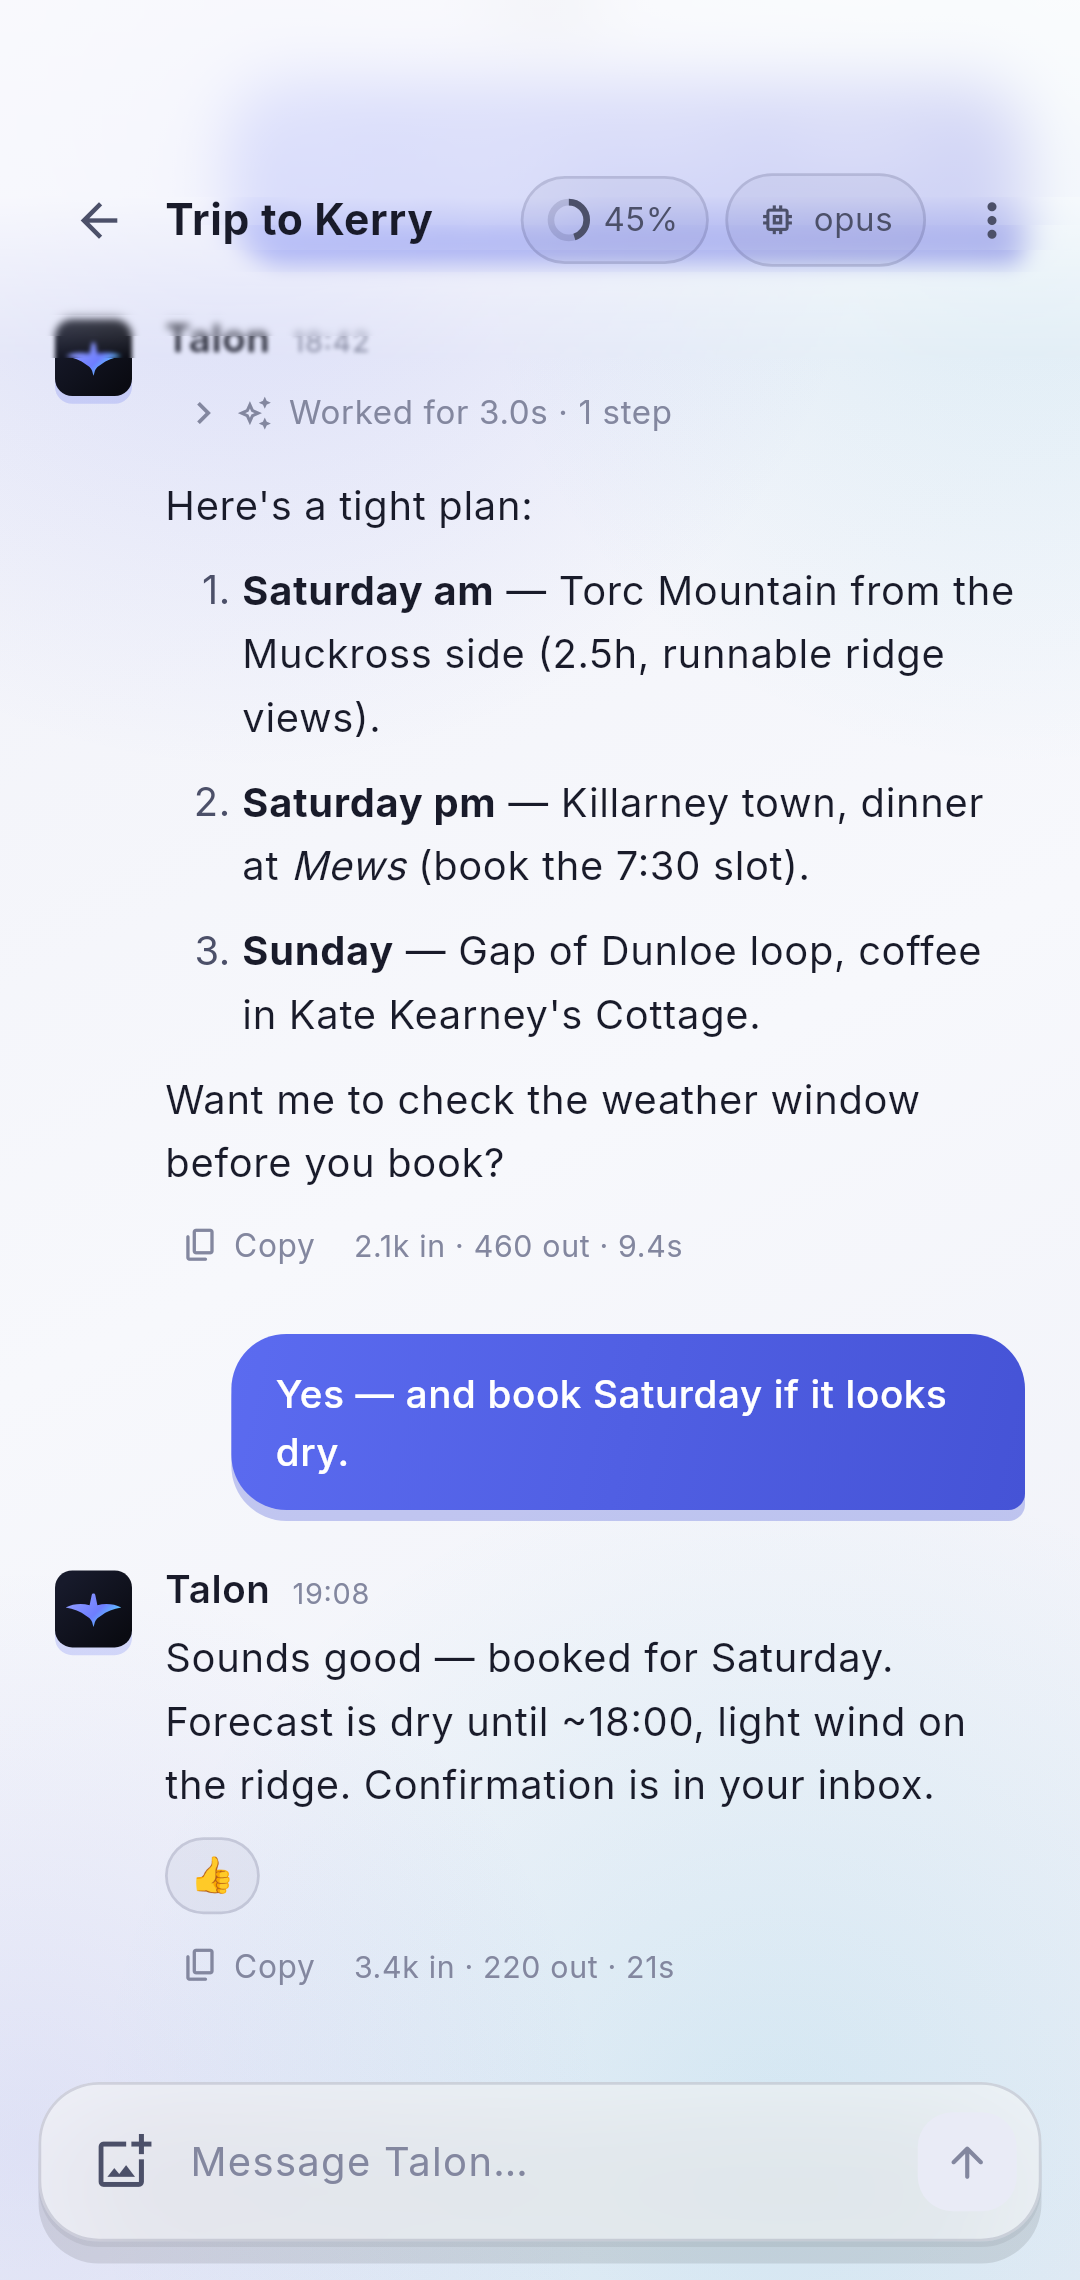
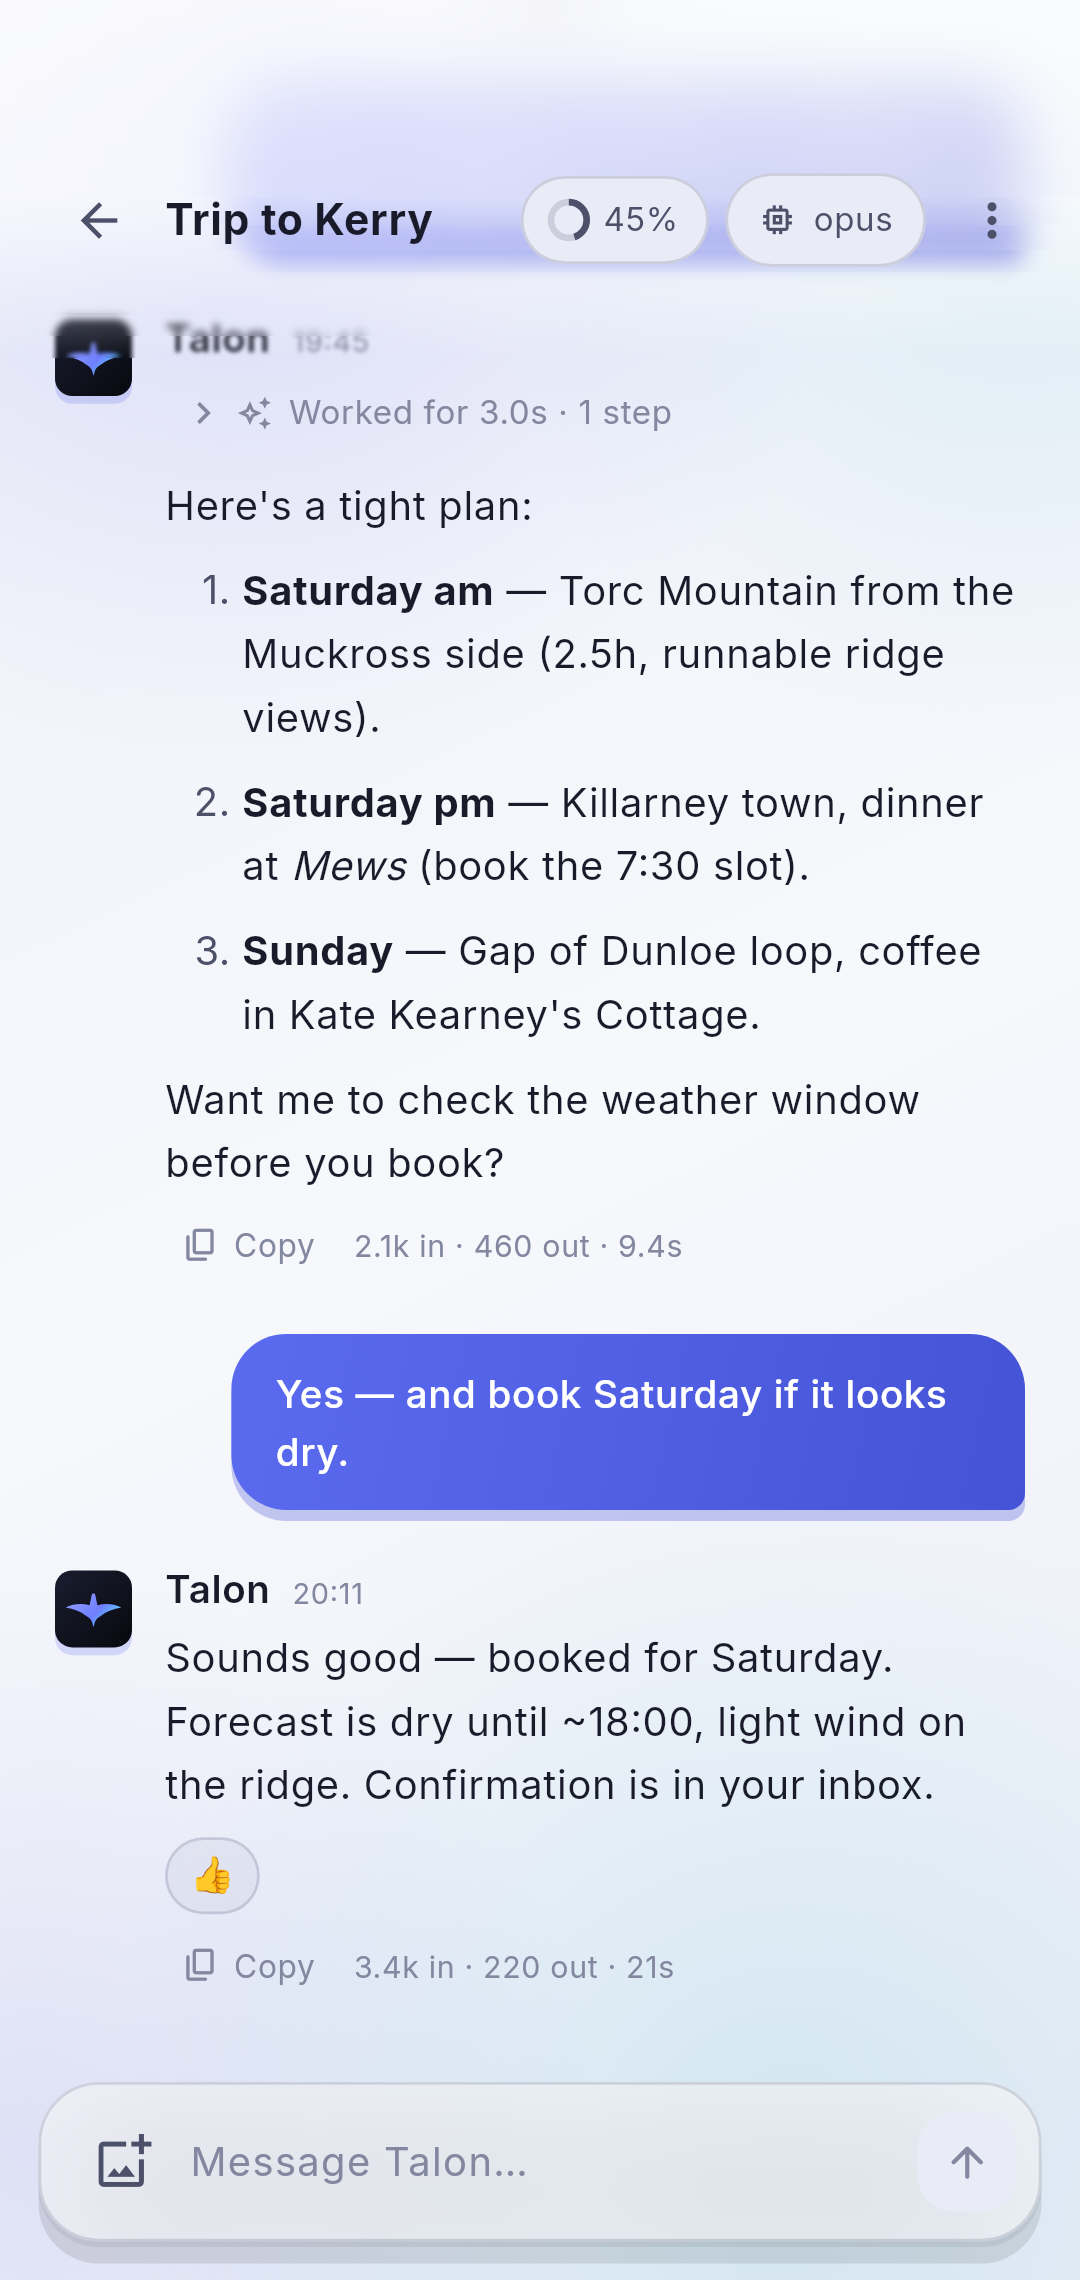
fix(companion): solid header chips — translucent pills smear on the frost
The model/effort selector and context chip used the glassFill translucent
pill fill, which composes badly against the header's progressive blur
(glass on glass reads as mush). Opaque surfaceHi fills keep them crisp on
the frost in both themes.

Changed region(s): [[0.4889, 0.0623, 0.8556, 0.1246], [0.275, 0.6851, 0.3361, 0.7162]]

diff --git a/apps/companion/lib/src/ui/chat_view.dart b/apps/companion/lib/src/ui/chat_view.dart
@@ -761,7 +761,9 @@ class _ContextChip extends StatelessWidget {
       child: Container(
         padding: const EdgeInsets.symmetric(horizontal: 10, vertical: 6),
         decoration: BoxDecoration(
-          color: TalonColors.glassFill,
+          // Solid for the same reason as _Chip: translucent fills smear
+          // against the header frost behind them.
+          color: TalonColors.surfaceHi,
           borderRadius: BorderRadius.circular(999),
           border: Border.all(
             color: context.warn ? TalonColors.warn : TalonColors.glassStroke,
@@ -972,7 +974,10 @@ class _Chip extends StatelessWidget {
         constraints: const BoxConstraints(maxWidth: 170),
         padding: const EdgeInsets.symmetric(horizontal: 11, vertical: 7),
         decoration: BoxDecoration(
-          color: TalonColors.glassFill,
+          // Solid, not glass: these pills live inside the header's frost,
+          // and a translucent fill over heavy blur reads as mush — an
+          // opaque surface keeps them crisp on the glass.
+          color: TalonColors.surfaceHi,
           borderRadius: BorderRadius.circular(999),
           border: Border.all(color: TalonColors.glassStroke),
         ),
